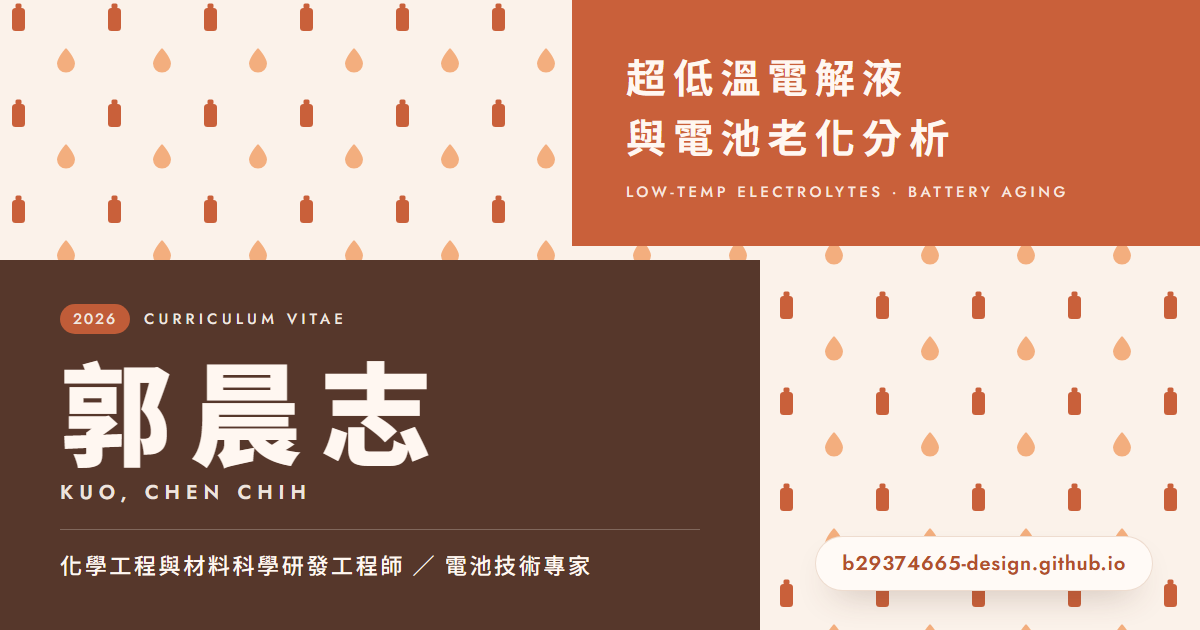
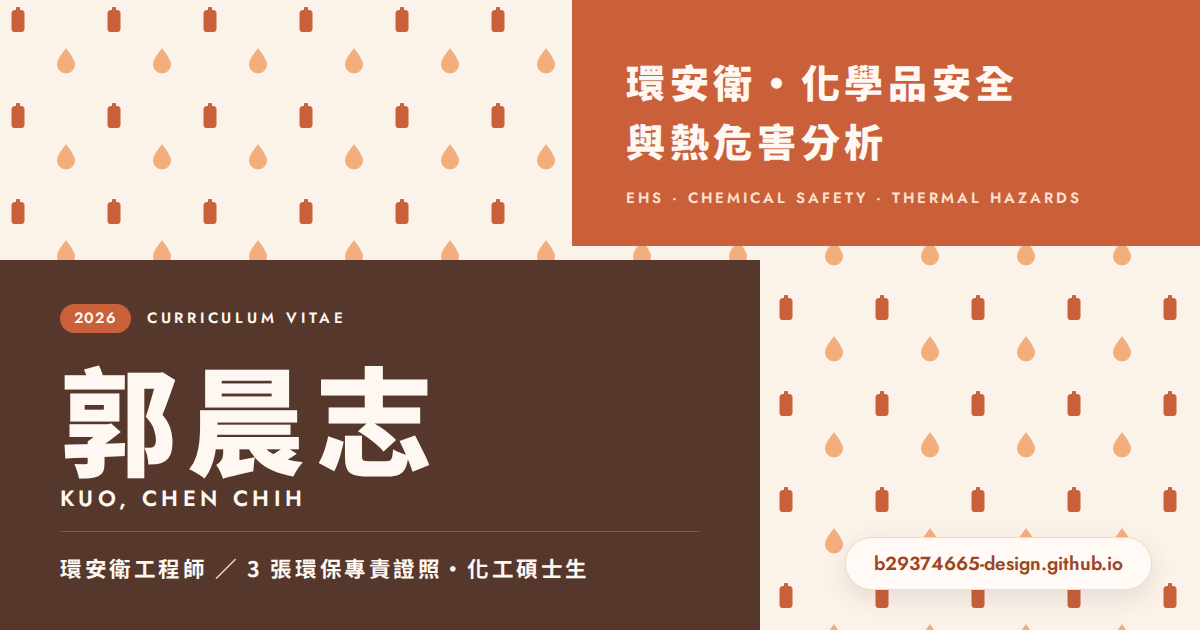
Share preview and sticky bar follow the EHS focus
Meta description, og:description, og:image alt and JSON-LD knowsAbout now lead
with EHS; og.png redrawn with EHS wording in the same layout. The sticky bar
subtitle switches per version (EHS vs battery research).

Claude-Session: https://claude.ai/code/session_01WKrxNcfFDzYPcsMUTwX1PF

diff --git a/index.html b/index.html
@@ -3,16 +3,16 @@
 <head>
 <meta charset="utf-8">
 <meta name="viewport" content="width=device-width,initial-scale=1,viewport-fit=cover">
-<meta name="description" content="郭晨志 KUO CHEN CHIH — 化學工程與材料科學研發工程師：電化學、超低溫電解液、鋰電池老化分析。">
+<meta name="description" content="郭晨志 KUO CHEN CHIH — 環安衛（EHS）工程師履歷：乙級廢水、甲級廢棄物、室內空氣品質三張環保專責證照，危害性化學品與實驗室安全管理、TGA／DSC 熱危害分析；台科大化工所碩士生。">
 <meta property="og:title" content="郭晨志 KUO CHEN CHIH · Curriculum Vitae">
-<meta property="og:description" content="電化學、超低溫電解液與鋰電池老化分析｜國立臺灣科技大學化工所">
+<meta property="og:description" content="環安衛（EHS）工程師｜三張環保專責證照・化學品與實驗室安全・熱危害分析｜國立臺灣科技大學化工所">
 <meta property="og:type" content="profile">
 <meta property="og:url" content="https://b29374665-design.github.io/">
 <link rel="canonical" href="https://b29374665-design.github.io/">
 <meta property="og:image" content="https://b29374665-design.github.io/og.png">
 <meta property="og:image:width" content="1200">
 <meta property="og:image:height" content="630">
-<meta property="og:image:alt" content="郭晨志 KUO CHEN CHIH — 超低溫電解液與電池老化分析">
+<meta property="og:image:alt" content="郭晨志 KUO CHEN CHIH — 環安衛・化學品安全與熱危害分析">
 <meta property="og:locale" content="zh_TW">
 <meta property="og:locale:alternate" content="en_US">
 <meta name="theme-color" content="#fbf2ea" media="(prefers-color-scheme: light)">
@@ -27,7 +27,7 @@
  "address":{"@type":"PostalAddress","addressLocality":"新莊區","addressRegion":"新北市","addressCountry":"TW"},
  "affiliation":{"@type":"CollegeOrUniversity","name":"國立臺灣科技大學","alternateName":"National Taiwan University of Science and Technology"},
  "alumniOf":{"@type":"CollegeOrUniversity","name":"東海大學","alternateName":"Tunghai University"},
- "knowsAbout":["電化學","超低溫電解液","鋰電池老化分析","EIS","TGA","DSC","環安衛（EHS）"],
+ "knowsAbout":["環安衛（EHS）","危害性化學品管理","實驗室安全","熱危害分析","廢水處理","廢棄物處理","室內空氣品質","電化學","鋰電池老化分析","TGA","DSC"],
  "hasCredential":[
   {"@type":"EducationalOccupationalCredential","name":"乙級廢水處理專責人員","credentialCategory":"license"},
   {"@type":"EducationalOccupationalCredential","name":"室內空氣品質維護管理專責人員","credentialCategory":"license"},
@@ -1404,7 +1404,7 @@ main.wrap{display:flex;flex-direction:column}
 <nav class="bar" aria-label="Site">
   <a class="brand" href="#top">
     <span class="nm zh">郭晨志</span><span class="nm en">KUO CHEN CHIH</span>
-    <span class="sub"><span class="zh">國立臺灣科技大學 化學工程研究所<br>電池・電解液研究</span><span class="en">M.S. Chemical Engineering, NTUST<br>Battery &amp; electrolyte research</span></span>
+    <span class="sub"><span class="zh">國立臺灣科技大學 化學工程研究所<br><span class="ehs-only">環安衛・化學品安全</span><span class="rd-only">電池・電解液研究</span></span><span class="en">M.S. Chemical Engineering, NTUST<br><span class="ehs-only">EHS &amp; chemical safety</span><span class="rd-only">Battery &amp; electrolyte research</span></span></span>
   </a>
   <a class="pdf-btn" data-pdf href="resume-zh.pdf" download hidden aria-label="Download résumé PDF"><svg width="14" height="14" viewBox="0 0 16 16" aria-hidden="true"><path d="M8 2v8M4.5 6.8 8 10.3l3.5-3.5M3 13.5h10" fill="none" stroke="currentColor" stroke-width="1.8" stroke-linecap="round" stroke-linejoin="round"/></svg><span class="zh">下載履歷</span><span class="en">Résumé</span></a>
   <div class="lang" role="group" aria-label="Language">
